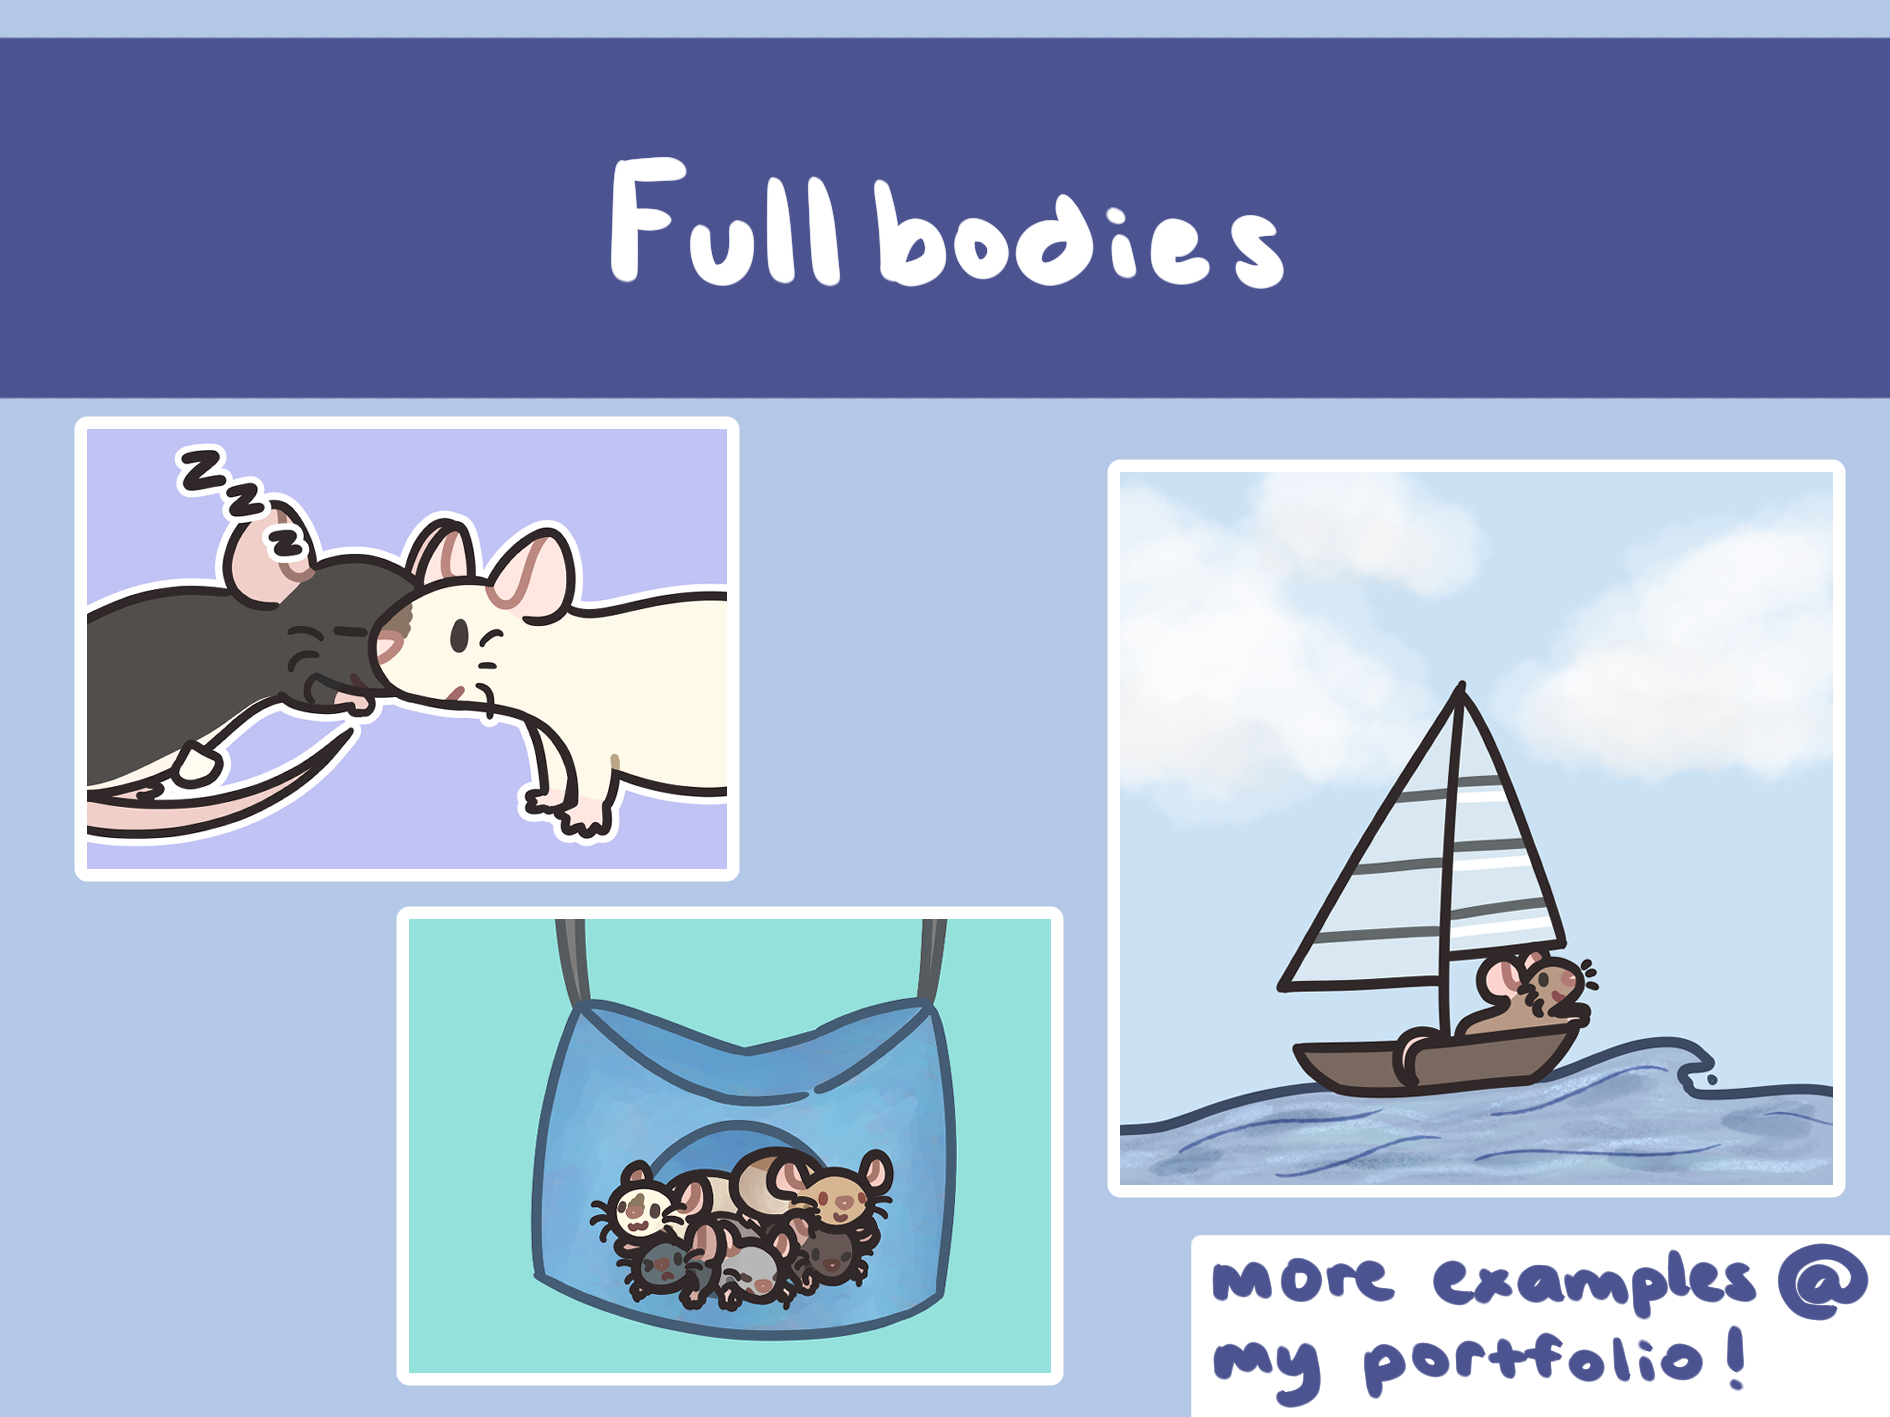
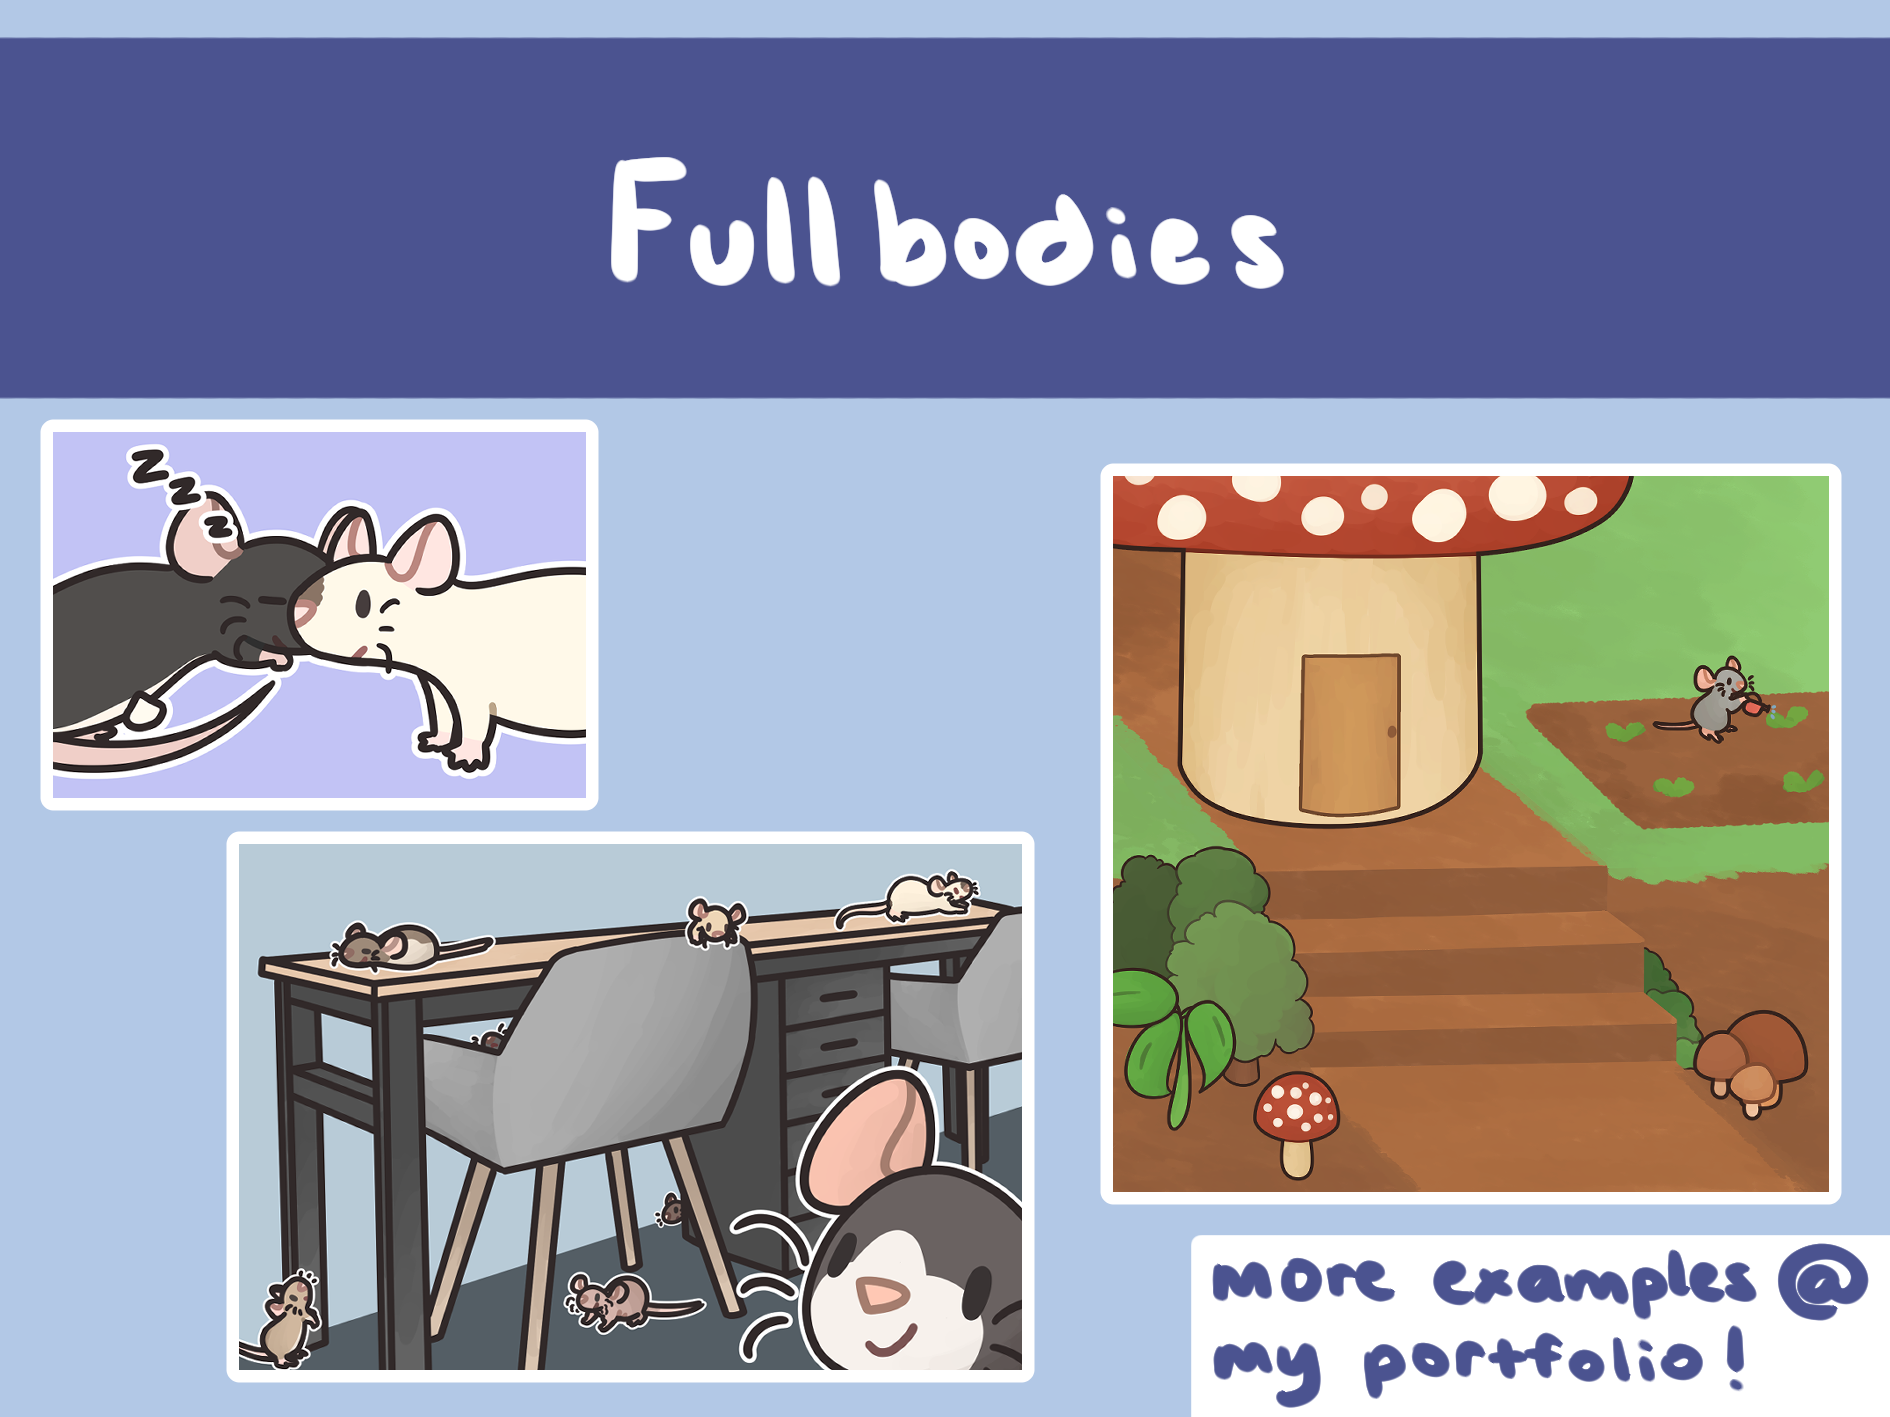
updated portfolio and fullbodies example image

diff --git a/portfolio.html b/portfolio.html
@@ -78,7 +78,7 @@
                         You just wouldn't get it...
                     </div>
                     
-                    <div class="thumbnail">
+                    <!--<div class="thumbnail">
                         <img src="portfolio_images/pets/daisy_olive.png">
                         Daisy and Olive the Rats — For @_elleski
                     </div>
@@ -86,12 +86,7 @@
                     <div class="thumbnail">
                         <img src="portfolio_images/pets/frank_henry.png">
                         Frank and Henry the Skinny Pigs — For @zoepilled
-                    </div>
-                    
-                    <div class="thumbnail">
-                        <img src="portfolio_images/pets/taako.png">
-                        Taako! — For Beck
-                    </div>
+                    </div>-->
                     
                     <div class="thumbnail">
                         <img src="portfolio_images/pets/rat_pile.png">
@@ -99,8 +94,18 @@
                     </div>
                     
                     <div class="thumbnail">
-                        <img src="portfolio_images/pets/water.png">
-                        Rat at the beach! Leaving those little ratty footprints in the sand.
+                        <img src="portfolio_images/pets/ratastrophe.png">
+                        It's a ratastrophe!!
+                    </div>
+                    
+                    <div class="thumbnail">
+                        <img src="portfolio_images/pets/mushroom_rat.png">
+                        Oh, to be a rat living on a mushroom farm...
+                    </div>
+                    
+                    <div class="thumbnail">
+                        <img src="portfolio_images/pets/taako.png">
+                        Taako! — For Beck
                     </div>
                     
                 </div>
@@ -134,8 +139,8 @@
                     </div>
                     
                     <div class="thumbnail">
-                        <img src="portfolio_images/emotes_icons/dewott.png">
-                        Dewott >:D — For Ace
+                        <img src="portfolio_images/emotes_icons/oshawott.png">
+                        Oshawott :>
                     </div>
                 </div>
                 
